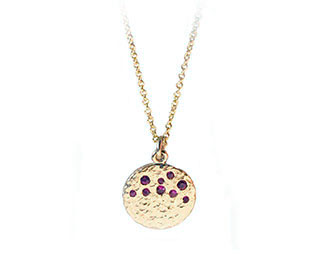
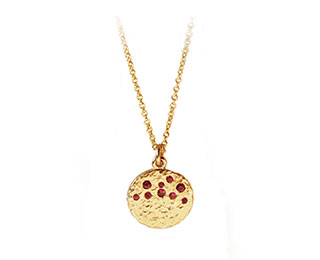
Proce modifications, image corrections and policy typo correction

Changed region(s): [[0.3438, 0.0615, 0.625, 0.8923]]

diff --git a/policies.php b/policies.php
@@ -103,13 +103,13 @@ $htmlBodyID=strtolower($htmlBodyID);
 						<strong>Caring for your fine jewelry</strong>
 					</p>
 					<p>
-						Your Anouk piece is designed to last a lifetime. However, even though precious metals very durable, 
+						Your Anouk piece is designed to last a lifetime. However, even though precious metals are very durable, 
 						they may still be scratched and damaged. To ensure longevity of your jewelry, we suggest removing it before 
 						activities such as lifting weights, rock climbing, swimming, etc. as well as before using strong chemicals (chlorine, bleach, etc.)
 					</p>
 	 				<p>
 						To clean your fine jewelry at home we recommend using a soft toothbrush, warm water and mild soap. 
-						For a deeper cleaning, you’re welcome to bring your piece to one of our retail locations. We encourage you to have your 
+						For deeper cleaning, you’re welcome to bring your piece to one of our retail locations. We encourage you to have your 
 						jewelry checked on a yearly basis to ensure that the settings have not become loose.
 					</p>
  				</div>
